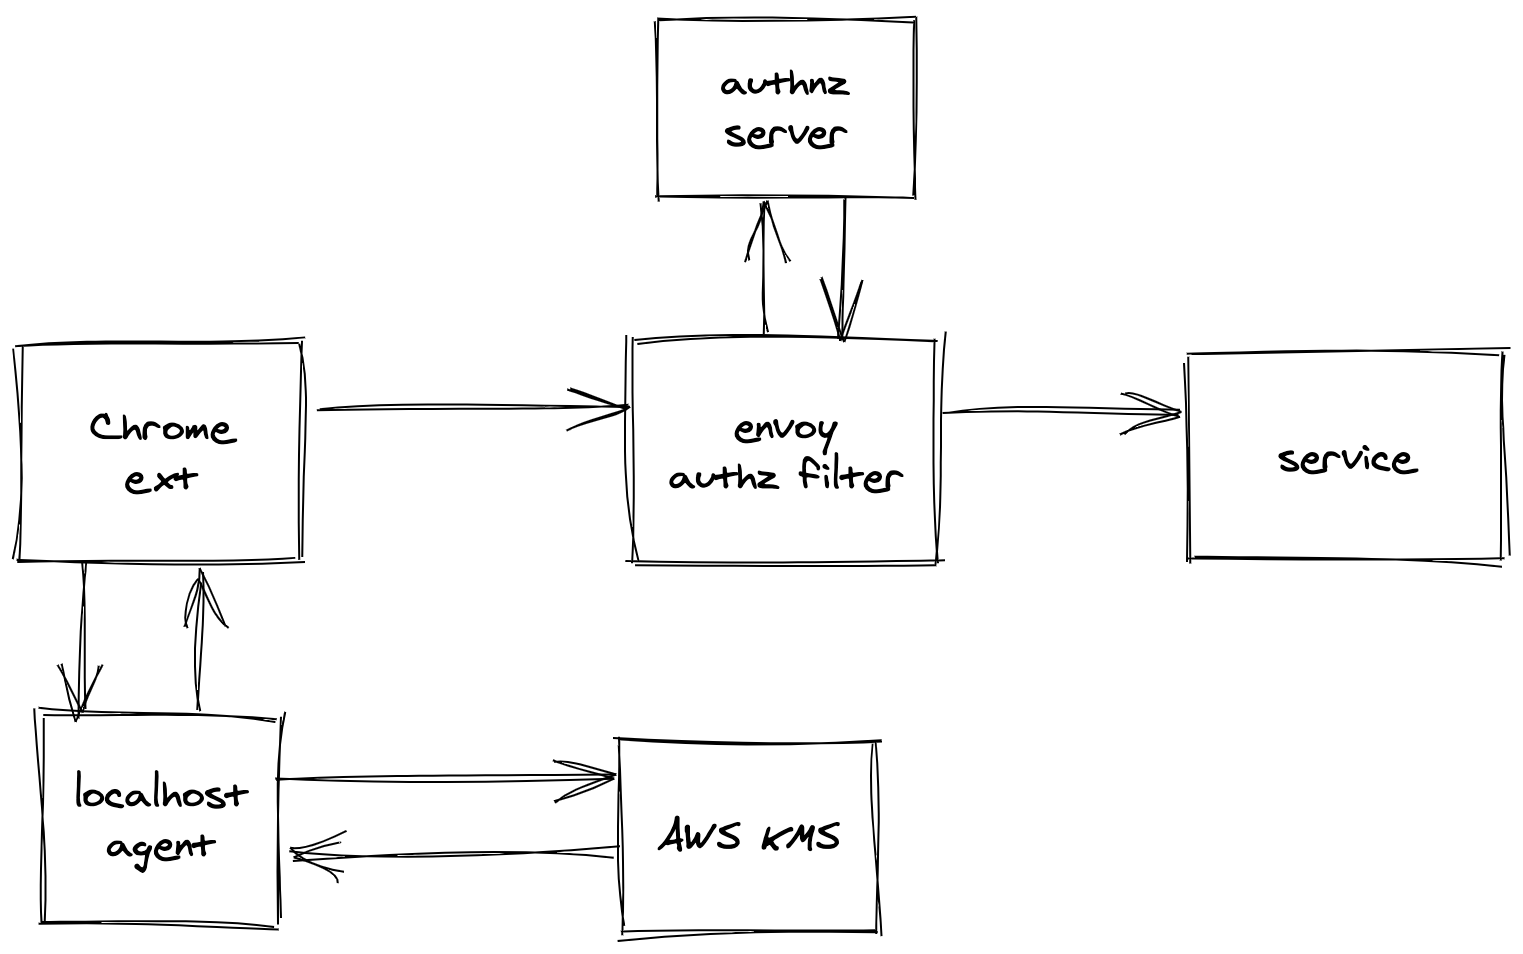
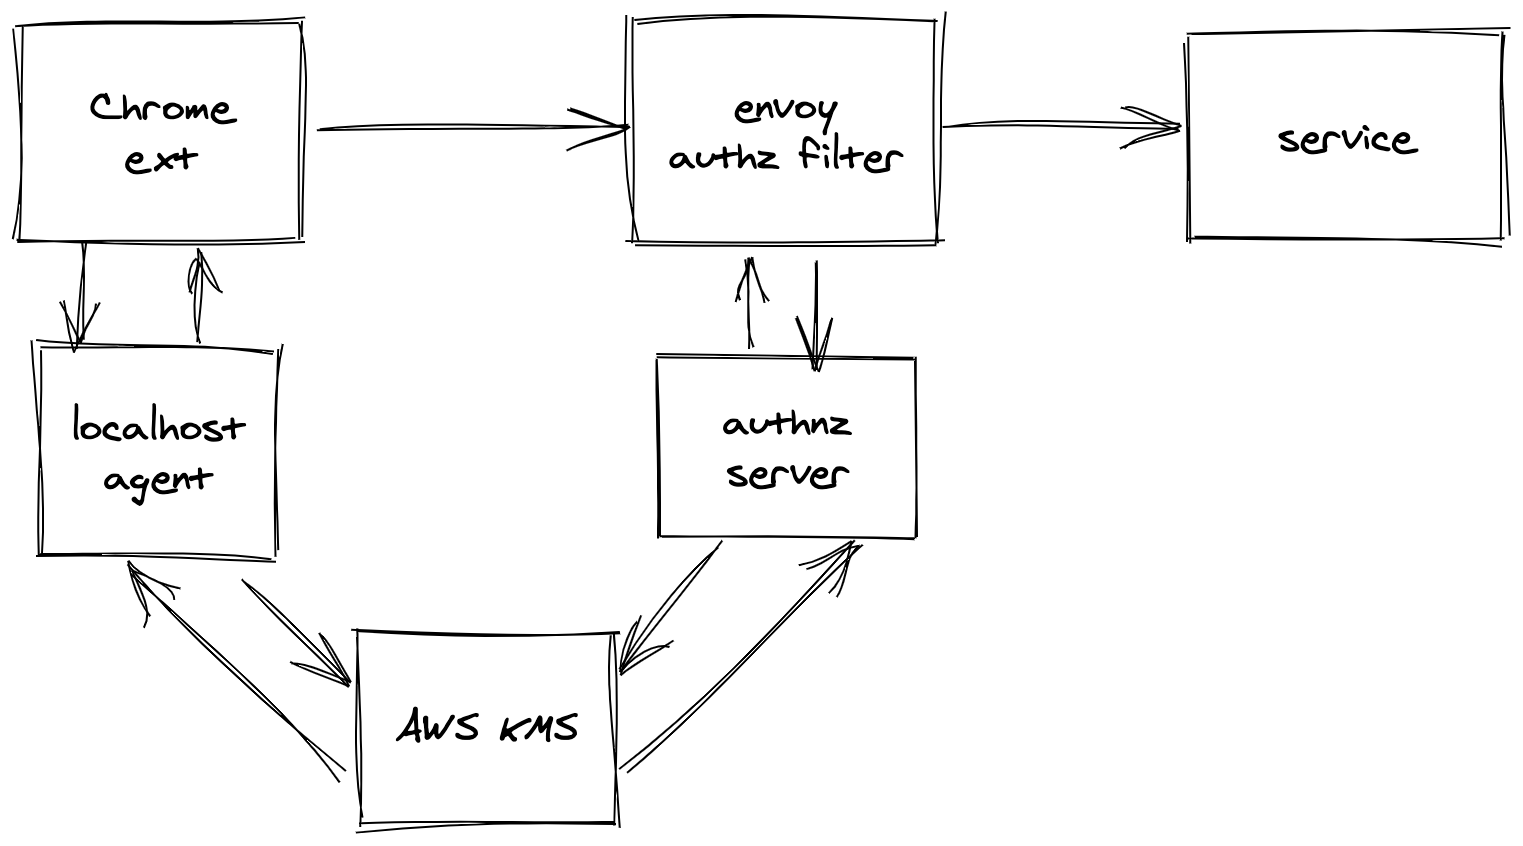
update readme

diff --git a/README.md b/README.md
@@ -1,14 +1,37 @@
-# zerotrust
+# zerotrust poc
 
 ![diagram](./images/diagram.png)
 
+Note: This is missing trust policies + trust engine
 
 ## Chrome Extension
+The extension makes calls to the localhost agent and wraps HTTP calls to our selected domains.
 
 ## Agent
+The agent is only responsible for calling AWS KMS to create an encrypted token.
 
 ## AWS KMS
+KMS is used by both the client and server.
+
+### Client
+User clients are only allowed to encrypt with an EncryptionContext
+
+```
+"Condition": {
+	"StringEquals": {
+		"kms:EncryptionContext:username": "${aws:username}"
+	},
+	"Bool": {
+		"aws:MultiFactorAuthPresent": "true"
+        }
+}
+```
+
+### Server
+The server takes in the username and encrypted blob.  It uses the passed in username to match the encryption context.
 
 ## Envoy
+Envoy acts as a front proxy.  We leverage the [Envoy authz filter](https://www.envoyproxy.io/docs/envoy/latest/configuration/http/http_filters/ext_authz_filter) to call an external HTTP endpoint for authn.
 
-## Authnz Server
+## Authn Server
+Envoy calls this server for authn.
